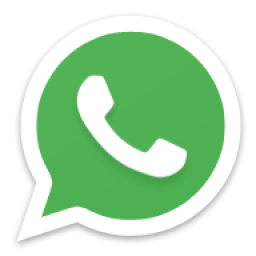
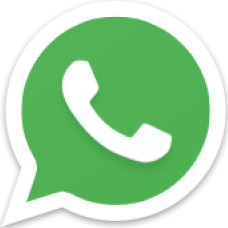
formatted sharing buttons

diff --git a/src/front-end/app/styles/app.less b/src/front-end/app/styles/app.less
@@ -6,6 +6,7 @@
 @import "home";
 @import "results";
 @import "footer";
+@import "share-social";
 
 
 @font-face { font-family: 'OpenSansEmoji-Regular'; src:

diff --git a/src/front-end/app/styles/share-social.less b/src/front-end/app/styles/share-social.less
@@ -1,0 +1,8 @@
+#shareSocial{
+    .iconLarge{
+        width: 120px;
+    }
+    .iconSmall{
+        width: 100px;
+    }
+}

diff --git a/src/front-end/app/styles/results.less b/src/front-end/app/styles/results.less
@@ -1,4 +1,4 @@
-.results{
+#results{
   .nav-tabs{
     margin-bottom: 70px;
   }
